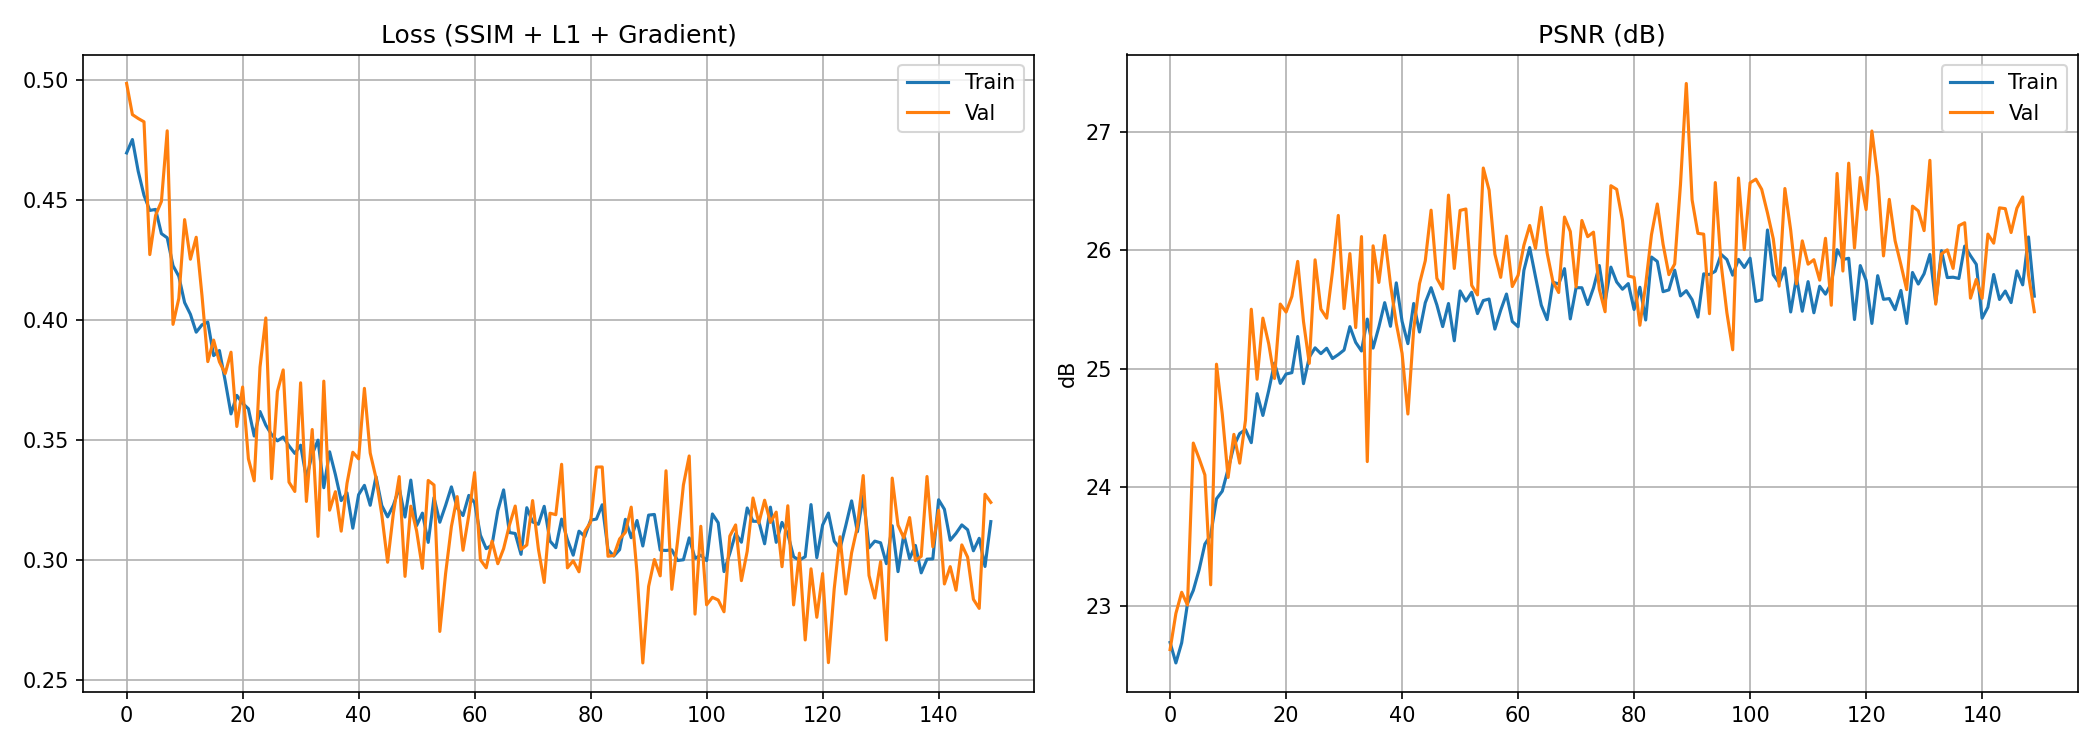
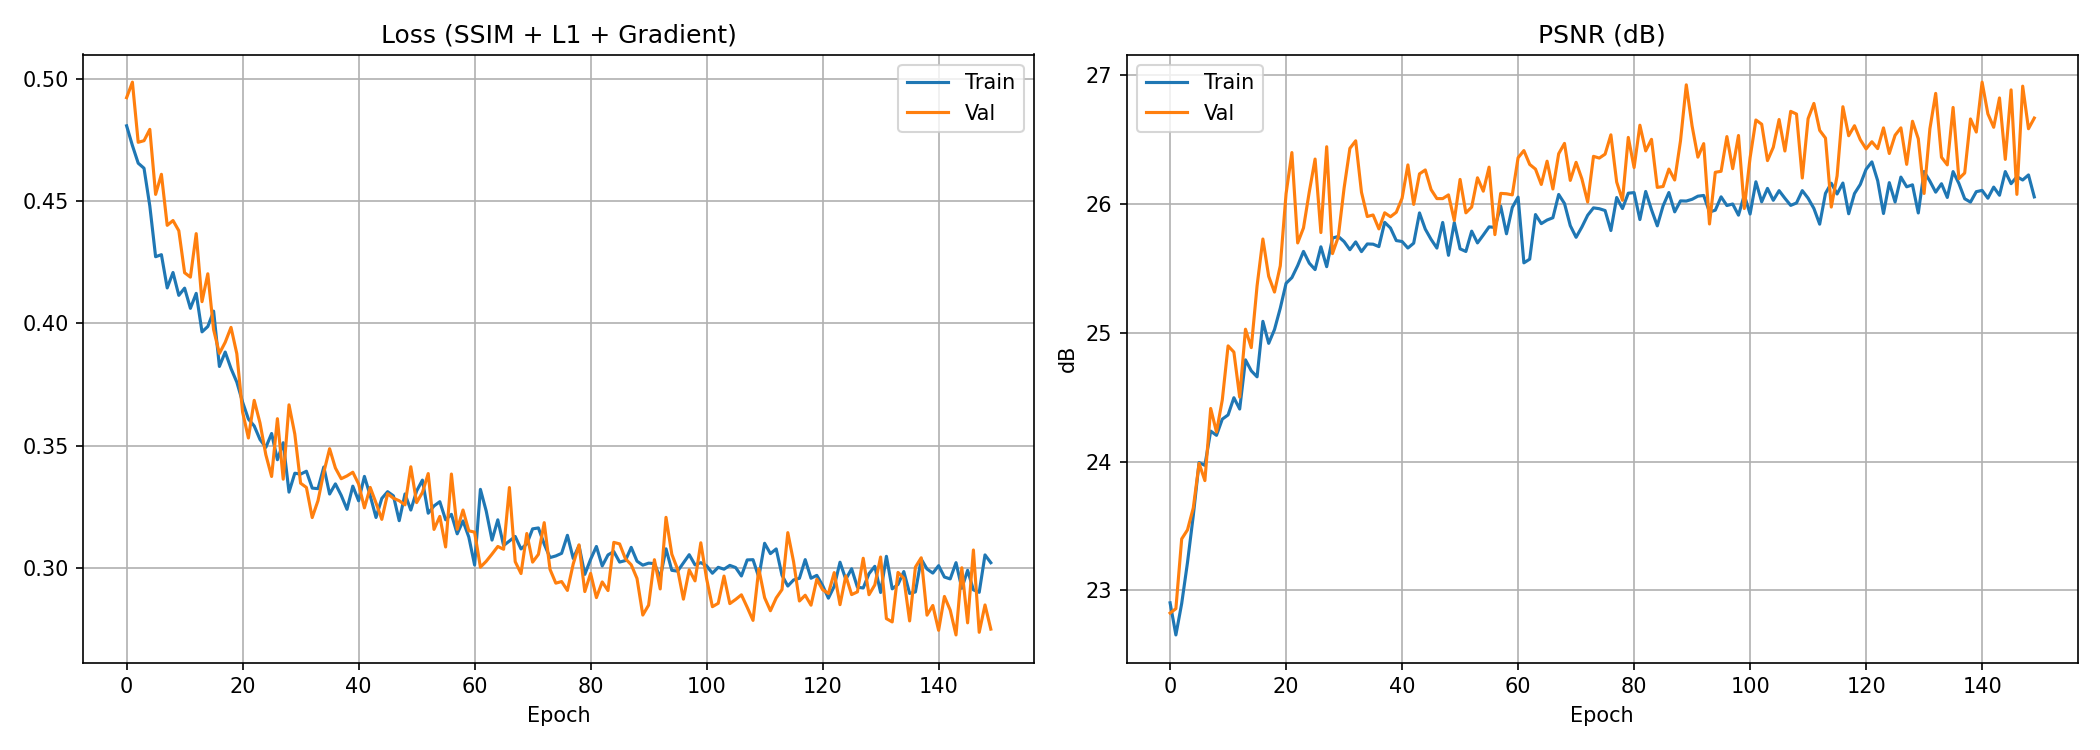
.

diff --git a/main.py b/main.py
@@ -1,5 +1,6 @@
 import os
 import glob
+import warnings
 import numpy as np
 import torch
 import torch.nn as nn
@@ -11,6 +12,9 @@ from PIL import Image
 import matplotlib.pyplot as plt
 from pytorch_msssim import ssim
 
+# Suppress harmless torchvision.io libjpeg warning (PIL is used instead)
+warnings.filterwarnings("ignore", category=UserWarning, module="torchvision")
+
 
 # ==========================================
 # 1. THE ARCHITECTURE
@@ -18,14 +22,10 @@ from pytorch_msssim import ssim
 class NeuralPeronaMalik(nn.Module):
     def __init__(self, iterations=10, lambda_param=0.1, guidance_channels=8):
         super().__init__()
-        # FIX: Assert stability bound for forward Euler diffusion
         assert lambda_param <= 0.25, "lambda_param > 0.25 violates 4-neighbor diffusion stability"
         self.iterations = iterations
         self.lambda_param = lambda_param
 
-        # FIX: Removed BatchNorm before Sigmoid (compresses output to ~0.5, kills dynamic range)
-        # FIX: Removed inplace=True from all ReLUs (autograd risk in iterative loop)
-        # FIX: Added dilated conv for wider receptive field (~9x9) in guidance encoder
         self.guidance_encoder = nn.Sequential(
             nn.Conv2d(1, 16, kernel_size=3, padding=2, dilation=2),
             nn.BatchNorm2d(16),
@@ -34,7 +34,6 @@ class NeuralPeronaMalik(nn.Module):
             nn.Sigmoid()
         )
 
-        # FIX: Channels parameterized via comment (not hardcoded)
         # Input: 4 directional gradients + guidance_channels = (4 + guidance_channels) total
         self.conduction_net = nn.Sequential(
             nn.Conv2d(4 + guidance_channels, 32, kernel_size=3, padding=1),
@@ -46,13 +45,8 @@ class NeuralPeronaMalik(nn.Module):
         )
 
     def forward(self, x):
-        # FIX: Pre-smooth noisy input before guidance extraction
-        # Prevents structural prior from being dominated by noise artifacts
         x_smooth = F.avg_pool2d(x, kernel_size=3, stride=1, padding=1)
-
-        # FIX: .detach() prevents guidance encoder from receiving
-        # ~iterations× amplified gradients vs conduction_net
-        guidance_features = self.guidance_encoder(x_smooth).detach()
+        guidance_features = self.guidance_encoder(x_smooth)
 
         for _ in range(self.iterations):
             x_pad = F.pad(x, (1, 1, 1, 1), mode='replicate')
@@ -75,7 +69,6 @@ class NeuralPeronaMalik(nn.Module):
 # 2. LOSSES
 # ==========================================
 def gradient_loss(pred, target):
-    """Edge-preserving loss: penalizes blurring of structural boundaries."""
     dx_pred = pred[:, :, :, 1:] - pred[:, :, :, :-1]
     dx_tgt  = target[:, :, :, 1:] - target[:, :, :, :-1]
     dy_pred = pred[:, :, 1:, :] - pred[:, :, :-1, :]
@@ -90,10 +83,9 @@ def psnr(pred, target):
 
 def combined_loss(output, clean, l1_criterion):
     ssim_loss = 1 - ssim(output, clean, data_range=1.0)
-    l1 = l1_criterion(output, clean)
-    grad = gradient_loss(output, clean)
-    # FIX: Added gradient loss term to prevent over-smoothing
-    return ssim_loss + 1.0 * l1 + 0.1 * grad
+    l1        = l1_criterion(output, clean)
+    grad      = gradient_loss(output, clean)
+    return ssim_loss + 1.0 * l1 + 0.25 * grad
 
 
 # ==========================================
@@ -110,7 +102,6 @@ class MRIDenoisingDataset(Dataset):
             self.image_paths.extend(paths)
             self.labels.extend([label] * len(paths))
 
-        # FIX: Open as 'L' directly; removed redundant convert('RGB') + Grayscale transform
         self.transform = transforms.Compose([
             transforms.Resize((image_size, image_size)),
             transforms.ToTensor()
@@ -120,21 +111,16 @@ class MRIDenoisingDataset(Dataset):
         return len(self.image_paths)
 
     def __getitem__(self, idx):
-        # FIX: Direct grayscale load instead of RGB -> Grayscale conversion
         clean_tensor = self.transform(Image.open(self.image_paths[idx]).convert('L'))
-
-        # FIX: Randomized noise sigma per sample for robustness
-        sigma = torch.empty(1).uniform_(0.05, 0.25).item()
+        sigma = torch.empty(1).uniform_(0.10, 0.20).item()
         noise = torch.randn_like(clean_tensor) * sigma
         noisy_tensor = torch.clamp(clean_tensor + noise, 0., 1.)
-
         return noisy_tensor, clean_tensor, self.labels[idx]
 
 
 # ==========================================
 # 4. SETUP
 # ==========================================
-# FIX: Full device fallback chain (MPS → CUDA → CPU)
 if torch.backends.mps.is_available():
     device = torch.device("mps")
 elif torch.cuda.is_available():
@@ -146,31 +132,43 @@ print(f"Running on: {device}")
 dataset_path = '/Users/tushar/Documents/Repositories/neural-anisotropic-diffusion/brain_tumor_dataset'
 full_dataset = MRIDenoisingDataset(dataset_path)
 
-# FIX: Stratified split to preserve class balance across train/val/test
 indices = list(range(len(full_dataset)))
 labels  = full_dataset.labels
 
-train_idx, temp_idx = train_test_split(indices, test_size=0.30, stratify=labels, random_state=42)
+train_idx, temp_idx = train_test_split(
+    indices, test_size=0.30, stratify=labels, random_state=42
+)
 temp_labels = [labels[i] for i in temp_idx]
-val_idx, test_idx = train_test_split(temp_idx, test_size=0.50, stratify=temp_labels, random_state=42)
+val_idx, test_idx = train_test_split(
+    temp_idx, test_size=0.50, stratify=temp_labels, random_state=42
+)
 
 train_set = Subset(full_dataset, train_idx)
 val_set   = Subset(full_dataset, val_idx)
 test_set  = Subset(full_dataset, test_idx)
-
 print(f"Train: {len(train_set)} | Val: {len(val_set)} | Test: {len(test_set)}")
 
+# FIX: num_workers=0 — macOS 'spawn' multiprocessing causes worker crash with num_workers > 0.
+# pin_memory removed — only benefits CUDA, has no effect on MPS.
 train_loader = DataLoader(train_set, batch_size=8, shuffle=True)
 val_loader   = DataLoader(val_set,   batch_size=8, shuffle=False)
 test_loader  = DataLoader(test_set,  batch_size=1, shuffle=False)
 
-model       = NeuralPeronaMalik(iterations=10, lambda_param=0.1).to(device)
-optimizer   = torch.optim.Adam(model.parameters(), lr=1e-3)
-l1_criterion = nn.L1Loss()
-epochs      = 150
+model = NeuralPeronaMalik(iterations=10, lambda_param=0.1).to(device)
 
-# FIX: Cosine annealing scheduler to avoid plateau from fixed LR
-scheduler = torch.optim.lr_scheduler.CosineAnnealingLR(optimizer, T_max=epochs, eta_min=1e-5)
+optimizer = torch.optim.Adam([
+    {'params': model.guidance_encoder.parameters(), 'lr': 1e-4},
+    {'params': model.conduction_net.parameters(),   'lr': 1e-3}
+])
+
+l1_criterion = nn.L1Loss()
+epochs = 150
+
+scheduler = torch.optim.lr_scheduler.CosineAnnealingWarmRestarts(
+    optimizer, T_0=50, T_mult=2, eta_min=1e-5
+)
+
+os.makedirs('checkpoints', exist_ok=True)
 
 
 # ==========================================
@@ -179,26 +177,20 @@ scheduler = torch.optim.lr_scheduler.CosineAnnealingLR(optimizer, T_max=epochs, 
 train_losses, val_losses = [], []
 train_psnrs,  val_psnrs  = [], []
 best_val_loss = float('inf')
-os.makedirs('checkpoints', exist_ok=True)
 
 for epoch in range(epochs):
-    # --- Train ---
     model.train()
     epoch_train_loss, epoch_train_psnr = 0.0, 0.0
     for noisy, clean, _ in train_loader:
         noisy, clean = noisy.to(device), clean.to(device)
-
-        # FIX: zero_grad at top of loop (before forward pass)
         optimizer.zero_grad()
         output = model(noisy)
         loss = combined_loss(output, clean, l1_criterion)
         loss.backward()
         optimizer.step()
-
         epoch_train_loss += loss.item()
         epoch_train_psnr += psnr(output.detach(), clean).item()
 
-    # --- Validate ---
     model.eval()
     epoch_val_loss, epoch_val_psnr = 0.0, 0.0
     with torch.no_grad():
@@ -210,24 +202,24 @@ for epoch in range(epochs):
 
     scheduler.step()
 
-    avg_train = epoch_train_loss / len(train_loader)
-    avg_val   = epoch_val_loss   / len(val_loader)
+    avg_train      = epoch_train_loss / len(train_loader)
+    avg_val        = epoch_val_loss   / len(val_loader)
     avg_train_psnr = epoch_train_psnr / len(train_loader)
     avg_val_psnr   = epoch_val_psnr   / len(val_loader)
 
-    train_losses.append(avg_train);      val_losses.append(avg_val)
-    train_psnrs.append(avg_train_psnr);  val_psnrs.append(avg_val_psnr)
+    train_losses.append(avg_train);     val_losses.append(avg_val)
+    train_psnrs.append(avg_train_psnr); val_psnrs.append(avg_val_psnr)
 
-    # FIX: Save best model by validation loss
     if avg_val < best_val_loss:
         best_val_loss = avg_val
         torch.save(model.state_dict(), 'checkpoints/best_model.pth')
 
     if (epoch + 1) % 10 == 0:
+        lrs = [pg['lr'] for pg in optimizer.param_groups]
         print(f"Epoch [{epoch+1}/{epochs}] "
-              f"Train Loss: {avg_train:.4f} | Val Loss: {avg_val:.4f} | "
-              f"Train PSNR: {avg_train_psnr:.2f}dB | Val PSNR: {avg_val_psnr:.2f}dB | "
-              f"LR: {scheduler.get_last_lr()[0]:.6f}")
+              f"Train: {avg_train:.4f} | Val: {avg_val:.4f} | "
+              f"PSNR Train: {avg_train_psnr:.2f}dB | Val: {avg_val_psnr:.2f}dB | "
+              f"LR: guide={lrs[0]:.2e} cond={lrs[1]:.2e}")
 
 print(f"\nTraining complete. Best val loss: {best_val_loss:.4f}")
 
@@ -235,18 +227,17 @@ print(f"\nTraining complete. Best val loss: {best_val_loss:.4f}")
 # ==========================================
 # 6. VISUALIZATION
 # ==========================================
-# A. Loss + PSNR curves
 fig, (ax1, ax2) = plt.subplots(1, 2, figsize=(14, 5))
-
 ax1.plot(train_losses, label='Train'); ax1.plot(val_losses, label='Val')
-ax1.set_title("Loss (SSIM + L1 + Gradient)"); ax1.legend(); ax1.grid(True)
-
+ax1.set_title("Loss (SSIM + L1 + Gradient)")
+ax1.set_xlabel("Epoch"); ax1.legend(); ax1.grid(True)
 ax2.plot(train_psnrs, label='Train'); ax2.plot(val_psnrs, label='Val')
-ax2.set_title("PSNR (dB)"); ax2.set_ylabel("dB"); ax2.legend(); ax2.grid(True)
+ax2.set_title("PSNR (dB)")
+ax2.set_xlabel("Epoch"); ax2.set_ylabel("dB"); ax2.legend(); ax2.grid(True)
+plt.tight_layout()
+plt.savefig('loss_curves.png', dpi=150)
+plt.show()
 
-plt.tight_layout(); plt.savefig('loss_curves.png', dpi=150); plt.show()
-
-# B. Class-stratified qualitative results (load best model first)
 model.load_state_dict(torch.load('checkpoints/best_model.pth', map_location=device))
 model.eval()
 
@@ -276,4 +267,6 @@ for label, data_list in examples.items():
         axes[row, 2].axis('off')
         row += 1
 
-plt.tight_layout(); plt.savefig('qualitative_results.png', dpi=150); plt.show()
+plt.tight_layout()
+plt.savefig('qualitative_results.png', dpi=150)
+plt.show()
